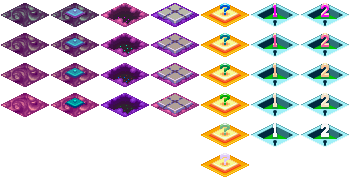
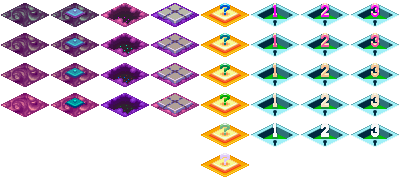
Add Gate 3 Panel, update gate markers to differ more

diff --git a/assets/liberations/tiles/panels.tsx b/assets/liberations/tiles/panels.tsx
@@ -1,29 +1,29 @@
 <?xml version="1.0" encoding="UTF-8"?>
-<tileset version="1.10" tiledversion="1.12.1" name="panels" tilewidth="50" tileheight="30" tilecount="42" columns="7" objectalignment="top">
+<tileset version="1.10" tiledversion="1.12.2" name="panels" tilewidth="50" tileheight="30" tilecount="48" columns="8" objectalignment="top">
  <tileoffset x="0" y="1"/>
  <grid orientation="isometric" width="64" height="32"/>
  <properties>
   <property name="Layer" type="int" value="10"/>
  </properties>
- <image source="panels.png" width="350" height="180"/>
+ <image source="panels.png" width="400" height="180"/>
  <tile id="0">
   <animation>
    <frame tileid="0" duration="1000"/>
-   <frame tileid="7" duration="500"/>
-   <frame tileid="14" duration="500"/>
-   <frame tileid="21" duration="1000"/>
-   <frame tileid="14" duration="500"/>
-   <frame tileid="7" duration="500"/>
+   <frame tileid="8" duration="500"/>
+   <frame tileid="16" duration="500"/>
+   <frame tileid="24" duration="1000"/>
+   <frame tileid="16" duration="500"/>
+   <frame tileid="8" duration="500"/>
   </animation>
  </tile>
  <tile id="1">
   <animation>
    <frame tileid="1" duration="1000"/>
-   <frame tileid="8" duration="500"/>
-   <frame tileid="15" duration="500"/>
-   <frame tileid="22" duration="1000"/>
-   <frame tileid="15" duration="500"/>
-   <frame tileid="8" duration="500"/>
+   <frame tileid="9" duration="500"/>
+   <frame tileid="17" duration="500"/>
+   <frame tileid="25" duration="1000"/>
+   <frame tileid="17" duration="500"/>
+   <frame tileid="9" duration="500"/>
   </animation>
  </tile>
  <tile id="2">
@@ -32,11 +32,11 @@
   </objectgroup>
   <animation>
    <frame tileid="2" duration="500"/>
-   <frame tileid="9" duration="500"/>
-   <frame tileid="16" duration="500"/>
-   <frame tileid="23" duration="500"/>
-   <frame tileid="16" duration="500"/>
-   <frame tileid="9" duration="500"/>
+   <frame tileid="10" duration="500"/>
+   <frame tileid="18" duration="500"/>
+   <frame tileid="26" duration="500"/>
+   <frame tileid="18" duration="500"/>
+   <frame tileid="10" duration="500"/>
   </animation>
  </tile>
  <tile id="3">
@@ -45,11 +45,11 @@
   </objectgroup>
   <animation>
    <frame tileid="3" duration="320"/>
-   <frame tileid="10" duration="320"/>
-   <frame tileid="17" duration="320"/>
-   <frame tileid="24" duration="320"/>
-   <frame tileid="17" duration="320"/>
-   <frame tileid="10" duration="320"/>
+   <frame tileid="11" duration="320"/>
+   <frame tileid="19" duration="320"/>
+   <frame tileid="27" duration="320"/>
+   <frame tileid="19" duration="320"/>
+   <frame tileid="11" duration="320"/>
   </animation>
  </tile>
  <tile id="4">
@@ -58,15 +58,15 @@
   </objectgroup>
   <animation>
    <frame tileid="4" duration="200"/>
-   <frame tileid="11" duration="200"/>
-   <frame tileid="18" duration="200"/>
-   <frame tileid="25" duration="200"/>
-   <frame tileid="32" duration="200"/>
-   <frame tileid="39" duration="133"/>
-   <frame tileid="32" duration="200"/>
-   <frame tileid="25" duration="200"/>
-   <frame tileid="18" duration="200"/>
-   <frame tileid="11" duration="200"/>
+   <frame tileid="12" duration="200"/>
+   <frame tileid="20" duration="200"/>
+   <frame tileid="28" duration="200"/>
+   <frame tileid="36" duration="200"/>
+   <frame tileid="44" duration="133"/>
+   <frame tileid="36" duration="200"/>
+   <frame tileid="28" duration="200"/>
+   <frame tileid="20" duration="200"/>
+   <frame tileid="12" duration="200"/>
   </animation>
  </tile>
  <tile id="5">
@@ -74,11 +74,11 @@
    <object id="1" x="-4" y="3" width="35" height="35"/>
   </objectgroup>
   <animation>
-   <frame tileid="5" duration="180"/>
-   <frame tileid="12" duration="180"/>
-   <frame tileid="19" duration="180"/>
-   <frame tileid="26" duration="180"/>
-   <frame tileid="33" duration="180"/>
+   <frame tileid="5" duration="2000"/>
+   <frame tileid="13" duration="100"/>
+   <frame tileid="21" duration="33"/>
+   <frame tileid="29" duration="17"/>
+   <frame tileid="37" duration="17"/>
   </animation>
  </tile>
  <tile id="6">
@@ -86,11 +86,23 @@
    <object id="1" x="-4" y="3" width="35" height="35"/>
   </objectgroup>
   <animation>
-   <frame tileid="6" duration="180"/>
-   <frame tileid="13" duration="180"/>
-   <frame tileid="20" duration="180"/>
-   <frame tileid="27" duration="180"/>
-   <frame tileid="34" duration="180"/>
+   <frame tileid="6" duration="2000"/>
+   <frame tileid="14" duration="100"/>
+   <frame tileid="22" duration="33"/>
+   <frame tileid="30" duration="17"/>
+   <frame tileid="38" duration="17"/>
+  </animation>
+ </tile>
+ <tile id="7">
+  <objectgroup draworder="index" id="2">
+   <object id="1" x="-4" y="3" width="35" height="35"/>
+  </objectgroup>
+  <animation>
+   <frame tileid="7" duration="2000"/>
+   <frame tileid="15" duration="100"/>
+   <frame tileid="23" duration="33"/>
+   <frame tileid="31" duration="17"/>
+   <frame tileid="39" duration="17"/>
   </animation>
  </tile>
 </tileset>
